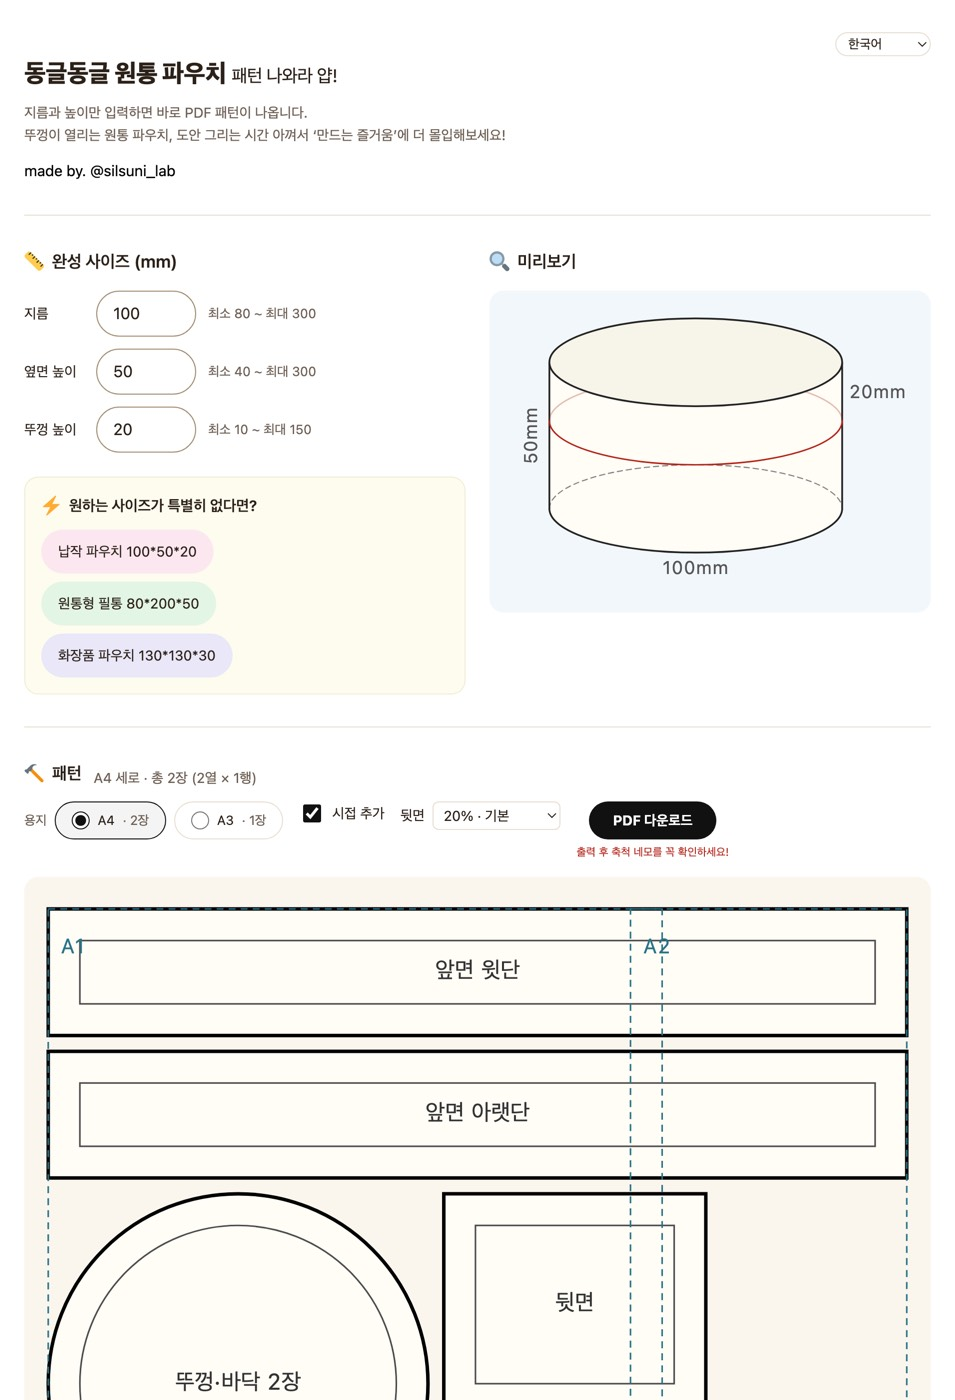
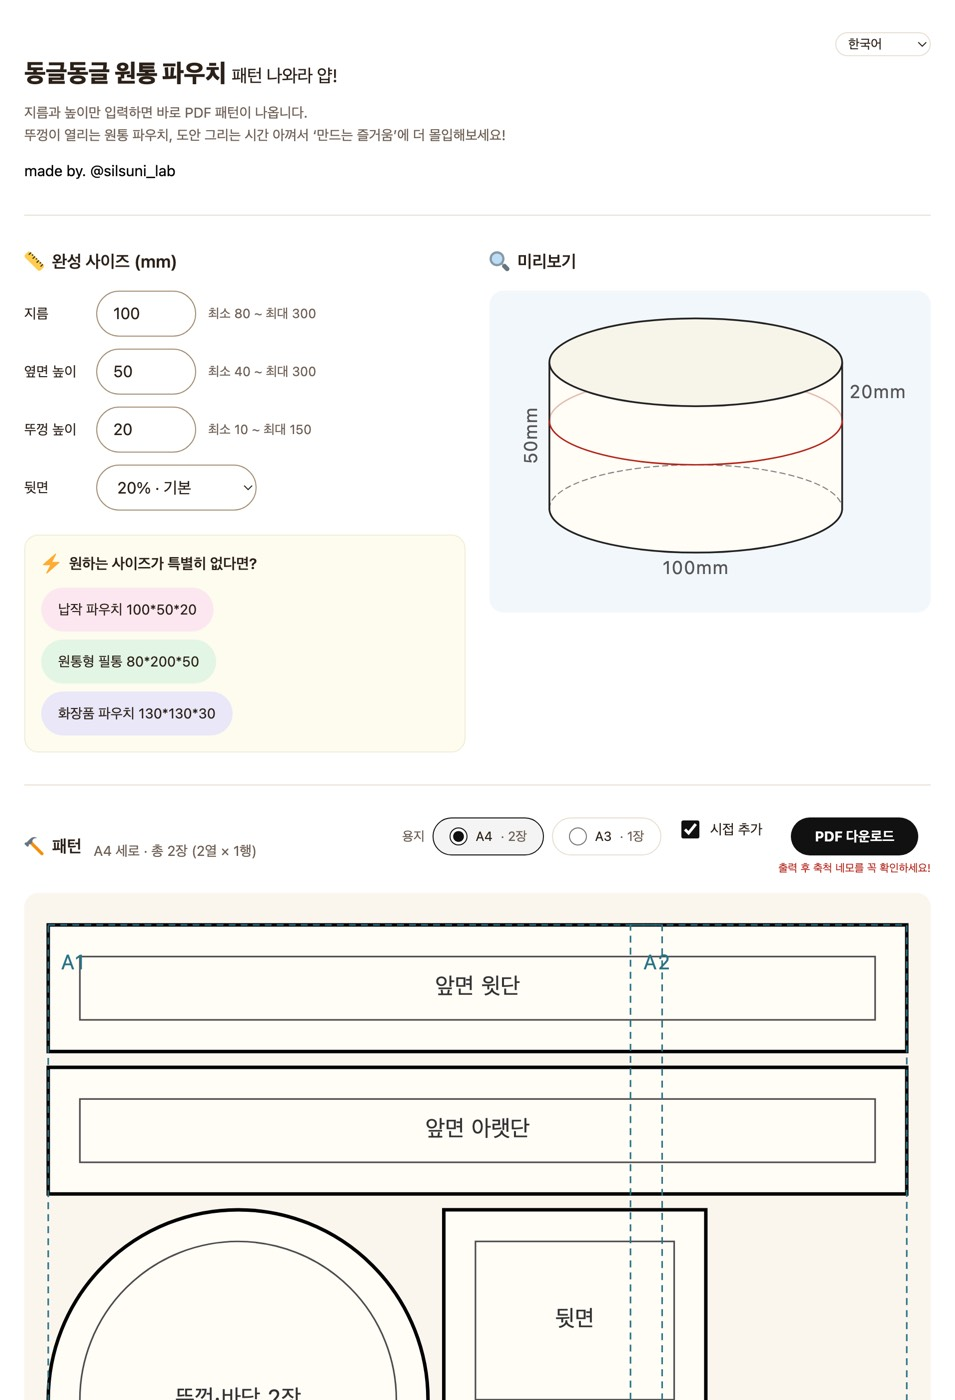
뒷면 비율을 치수 칸 아래로 옮기기
용지·시접과 함께 출력 설정 줄에 있었는데 그 자리가 아니었다. 용지는 종이를
고르는 값이고 시접은 켜고 끄는 값이지만, 뒷면 비율은 지름·옆면·뚜껑처럼
도안의 모양 자체를 정한다. 값을 바꾸면 조각 치수가 바뀐다. 뚜껑 높이 다음
줄로 올려 치수 넷이 한 묶음이 되게 했다.

값이 틀렸을 때 뜨는 오류 줄(#error)이 바로 아래에 있는 것도 이제야 맞다.
전에는 화면 위쪽 오류가 화면 아래쪽 칸을 가리키고 있었다.

라벨 칸을 .input-row와 같은 60px로 맞춰 왼쪽 끝이 정렬되고, 고르는 칸도
입력칸과 같은 키(46px)·같은 알약 모양으로 뒀다. 안 맞추면 네 줄 가운데
마지막 줄만 작고 각져 딴 무리로 보인다. 폭은 안 묶는다 — "10% · 경첩 좁게"가
입력칸 100px에 안 들어간다.

다섯 로케일 페이지에서 모두 옮겼다. 한 언어만 자리가 다르면 같은 화면이
언어마다 다른 것이 된다. 클래스 이름도 .fold-field에서 .back-field로 바꿨다
— 더는 체크박스 줄에 얹히지 않으므로 그 이름이 자리를 잘못 가리킨다.

화면이 바뀌었으므로 screenshot-round.jpg를 다시 찍었다.

Claude-Session: https://claude.ai/code/session_017eAgpg8sb2QR2GtxX5zMHr

diff --git a/round-pouch-test/ja/index.html b/round-pouch-test/ja/index.html
@@ -34,6 +34,7 @@
         <section class="panel" aria-labelledby="size-heading">
           <h2 class="section" id="size-heading"><svg class="icon" aria-hidden="true" focusable="false" xmlns="http://www.w3.org/2000/svg" viewBox="0 0 36 36"><path fill="#FFCC4D" d="M30.021 34.264c-1.563 1.563-4.095 1.562-5.656 0L1.736 11.636c-1.562-1.562-1.563-4.094 0-5.657l4.243-4.242c1.562-1.562 4.095-1.562 5.657 0l22.626 22.628c1.562 1.562 1.562 4.096.001 5.656l-4.242 4.243z"/><path fill="#292F33" d="M9.515 6.687c-.391.39-1.023.39-1.414 0-.39-.391-.39-1.024 0-1.415l3.536-3.536 1.414 1.415-3.536 3.536zm5.656 1.414c-.39.391-1.024.391-1.414 0-.391-.391-.391-1.024 0-1.414l1.415-1.415 1.414 1.415-1.415 1.414zm1.415 5.656c-.391.391-1.024.391-1.414 0-.39-.391-.39-1.024 0-1.414l3.536-3.536c.486.486.929.928 1.414 1.415l-3.536 3.535zm5.656 1.414c-.39.391-1.023.391-1.413 0-.392-.391-.391-1.024 0-1.414l1.414-1.415c.485.487.928.928 1.414 1.415l-1.415 1.414zm1.415 5.657c-.391.391-1.023.391-1.414 0-.391-.391-.391-1.023-.001-1.414l3.536-3.535 1.414 1.414-3.535 3.535zm7.071 7.071c-.39.391-1.023.391-1.413 0-.392-.391-.392-1.023-.001-1.414l3.536-3.535 1.414 1.414-3.536 3.535zm-1.415-5.657c-.391.391-1.022.391-1.414.001-.391-.391-.39-1.024 0-1.414l1.415-1.414 1.413 1.413-1.414 1.414z"/></svg>完成サイズ (mm)</h2>
           <div class="inputs" id="inputs"></div>
+          <div class="back-field" id="back-field"></div>
           <p class="error" id="error" hidden></p>
 
           <div class="presets-box">
@@ -63,7 +64,6 @@
               <div class="papers" id="papers"></div>
             </div>
             <div class="fold-field" id="seam-field"></div>
-            <div class="fold-field" id="back-field"></div>
             <div class="download-field">
               <button type="button" id="download" class="download">PDF をダウンロード</button>
               <p class="print-check">印刷後に 3cm を確認してください！</p>

diff --git a/round-pouch-test/index.html b/round-pouch-test/index.html
@@ -41,6 +41,7 @@
         <section class="panel" aria-labelledby="size-heading">
           <h2 class="section" id="size-heading"><svg class="icon" aria-hidden="true" focusable="false" xmlns="http://www.w3.org/2000/svg" viewBox="0 0 36 36"><path fill="#FFCC4D" d="M30.021 34.264c-1.563 1.563-4.095 1.562-5.656 0L1.736 11.636c-1.562-1.562-1.563-4.094 0-5.657l4.243-4.242c1.562-1.562 4.095-1.562 5.657 0l22.626 22.628c1.562 1.562 1.562 4.096.001 5.656l-4.242 4.243z"/><path fill="#292F33" d="M9.515 6.687c-.391.39-1.023.39-1.414 0-.39-.391-.39-1.024 0-1.415l3.536-3.536 1.414 1.415-3.536 3.536zm5.656 1.414c-.39.391-1.024.391-1.414 0-.391-.391-.391-1.024 0-1.414l1.415-1.415 1.414 1.415-1.415 1.414zm1.415 5.656c-.391.391-1.024.391-1.414 0-.39-.391-.39-1.024 0-1.414l3.536-3.536c.486.486.929.928 1.414 1.415l-3.536 3.535zm5.656 1.414c-.39.391-1.023.391-1.413 0-.392-.391-.391-1.024 0-1.414l1.414-1.415c.485.487.928.928 1.414 1.415l-1.415 1.414zm1.415 5.657c-.391.391-1.023.392-1.414 0-.391-.391-.391-1.023-.001-1.414l3.536-3.535 1.414 1.414-3.535 3.535zm7.071 7.071c-.39.391-1.023.391-1.413 0-.392-.391-.392-1.023-.001-1.414l3.536-3.535 1.414 1.414-3.536 3.535zm-1.415-5.657c-.391.391-1.022.391-1.414.001-.391-.391-.39-1.024 0-1.414l1.415-1.414 1.413 1.413-1.414 1.414z"/></svg>완성 사이즈 (mm)</h2>
           <div class="inputs" id="inputs"></div>
+          <div class="back-field" id="back-field"></div>
           <p class="error" id="error" hidden></p>
 
           <div class="presets-box">
@@ -70,7 +71,6 @@
               <div class="papers" id="papers"></div>
             </div>
             <div class="fold-field" id="seam-field"></div>
-            <div class="fold-field" id="back-field"></div>
             <div class="download-field">
               <button type="button" id="download" class="download">PDF 다운로드</button>
               <p class="print-check">출력 후 축척 네모를 꼭 확인하세요!</p>

diff --git a/round-pouch-test/en/index.html b/round-pouch-test/en/index.html
@@ -34,6 +34,7 @@
         <section class="panel" aria-labelledby="size-heading">
           <h2 class="section" id="size-heading"><svg class="icon" aria-hidden="true" focusable="false" xmlns="http://www.w3.org/2000/svg" viewBox="0 0 36 36"><path fill="#FFCC4D" d="M30.021 34.264c-1.563 1.563-4.095 1.562-5.656 0L1.736 11.636c-1.562-1.562-1.563-4.094 0-5.657l4.243-4.242c1.562-1.562 4.095-1.562 5.657 0l22.626 22.628c1.562 1.562 1.562 4.096.001 5.656l-4.242 4.243z"/><path fill="#292F33" d="M9.515 6.687c-.391.39-1.023.39-1.414 0-.39-.391-.39-1.024 0-1.415l3.536-3.536 1.414 1.415-3.536 3.536zm5.656 1.414c-.39.391-1.024.391-1.414 0-.391-.391-.391-1.024 0-1.414l1.415-1.415 1.414 1.415-1.415 1.414zm1.415 5.656c-.391.391-1.024.391-1.414 0-.39-.391-.39-1.024 0-1.414l3.536-3.536c.486.486.929.928 1.414 1.415l-3.536 3.535zm5.656 1.414c-.39.391-1.023.391-1.413 0-.392-.391-.391-1.024 0-1.414l1.414-1.415c.485.487.928.928 1.414 1.415l-1.415 1.414zm1.415 5.657c-.391.391-1.023.391-1.414 0-.391-.391-.391-1.023-.001-1.414l3.536-3.535 1.414 1.414-3.535 3.535zm7.071 7.071c-.39.391-1.023.391-1.413 0-.392-.391-.392-1.023-.001-1.414l3.536-3.535 1.414 1.414-3.536 3.535zm-1.415-5.657c-.391.391-1.022.391-1.414.001-.391-.391-.39-1.024 0-1.414l1.415-1.414 1.413 1.413-1.414 1.414z"/></svg>Finished size (mm)</h2>
           <div class="inputs" id="inputs"></div>
+          <div class="back-field" id="back-field"></div>
           <p class="error" id="error" hidden></p>
 
           <div class="presets-box">
@@ -63,7 +64,6 @@
               <div class="papers" id="papers"></div>
             </div>
             <div class="fold-field" id="seam-field"></div>
-            <div class="fold-field" id="back-field"></div>
             <div class="download-field">
               <button type="button" id="download" class="download">Download PDF</button>
               <p class="print-check">Check the test square after printing!</p>

diff --git a/round-pouch-test/zh-CN/index.html b/round-pouch-test/zh-CN/index.html
@@ -34,6 +34,7 @@
         <section class="panel" aria-labelledby="size-heading">
           <h2 class="section" id="size-heading"><svg class="icon" aria-hidden="true" focusable="false" xmlns="http://www.w3.org/2000/svg" viewBox="0 0 36 36"><path fill="#FFCC4D" d="M30.021 34.264c-1.563 1.563-4.095 1.562-5.656 0L1.736 11.636c-1.562-1.562-1.563-4.094 0-5.657l4.243-4.242c1.562-1.562 4.095-1.562 5.657 0l22.626 22.628c1.562 1.562 1.562 4.096.001 5.656l-4.242 4.243z"/><path fill="#292F33" d="M9.515 6.687c-.391.39-1.023.39-1.414 0-.39-.391-.39-1.024 0-1.415l3.536-3.536 1.414 1.415-3.536 3.536zm5.656 1.414c-.39.391-1.024.391-1.414 0-.391-.391-.391-1.024 0-1.414l1.415-1.415 1.414 1.415-1.415 1.414zm1.415 5.656c-.391.391-1.024.391-1.414 0-.39-.391-.39-1.024 0-1.414l3.536-3.536c.486.486.929.928 1.414 1.415l-3.536 3.535zm5.656 1.414c-.39.391-1.023.391-1.413 0-.392-.391-.391-1.024 0-1.414l1.414-1.415c.485.487.928.928 1.414 1.415l-1.415 1.414zm1.415 5.657c-.391.391-1.023.391-1.414 0-.391-.391-.391-1.023-.001-1.414l3.536-3.535 1.414 1.414-3.535 3.535zm7.071 7.071c-.39.391-1.023.391-1.413 0-.392-.391-.392-1.023-.001-1.414l3.536-3.535 1.414 1.414-3.536 3.535zm-1.415-5.657c-.391.391-1.022.391-1.414.001-.391-.391-.39-1.024 0-1.414l1.415-1.414 1.413 1.413-1.414 1.414z"/></svg>完成尺寸 (mm)</h2>
           <div class="inputs" id="inputs"></div>
+          <div class="back-field" id="back-field"></div>
           <p class="error" id="error" hidden></p>
 
           <div class="presets-box">
@@ -63,7 +64,6 @@
               <div class="papers" id="papers"></div>
             </div>
             <div class="fold-field" id="seam-field"></div>
-            <div class="fold-field" id="back-field"></div>
             <div class="download-field">
               <button type="button" id="download" class="download">下载 PDF</button>
               <p class="print-check">打印后请确认 3 厘米方格！</p>

diff --git a/round-pouch-test/zh-TW/index.html b/round-pouch-test/zh-TW/index.html
@@ -34,6 +34,7 @@
         <section class="panel" aria-labelledby="size-heading">
           <h2 class="section" id="size-heading"><svg class="icon" aria-hidden="true" focusable="false" xmlns="http://www.w3.org/2000/svg" viewBox="0 0 36 36"><path fill="#FFCC4D" d="M30.021 34.264c-1.563 1.563-4.095 1.562-5.656 0L1.736 11.636c-1.562-1.562-1.563-4.094 0-5.657l4.243-4.242c1.562-1.562 4.095-1.562 5.657 0l22.626 22.628c1.562 1.562 1.562 4.096.001 5.656l-4.242 4.243z"/><path fill="#292F33" d="M9.515 6.687c-.391.39-1.023.39-1.414 0-.39-.391-.39-1.024 0-1.415l3.536-3.536 1.414 1.415-3.536 3.536zm5.656 1.414c-.39.391-1.024.391-1.414 0-.391-.391-.391-1.024 0-1.414l1.415-1.415 1.414 1.415-1.415 1.414zm1.415 5.656c-.391.391-1.024.391-1.414 0-.39-.391-.39-1.024 0-1.414l3.536-3.536c.486.486.929.928 1.414 1.415l-3.536 3.535zm5.656 1.414c-.39.391-1.023.391-1.413 0-.392-.391-.391-1.024 0-1.414l1.414-1.415c.485.487.928.928 1.414 1.415l-1.415 1.414zm1.415 5.657c-.391.391-1.023.391-1.414 0-.391-.391-.391-1.023-.001-1.414l3.536-3.535 1.414 1.414-3.535 3.535zm7.071 7.071c-.39.391-1.023.391-1.413 0-.392-.391-.392-1.023-.001-1.414l3.536-3.535 1.414 1.414-3.536 3.535zm-1.415-5.657c-.391.391-1.022.391-1.414.001-.391-.391-.39-1.024 0-1.414l1.415-1.414 1.413 1.413-1.414 1.414z"/></svg>完成尺寸 (mm)</h2>
           <div class="inputs" id="inputs"></div>
+          <div class="back-field" id="back-field"></div>
           <p class="error" id="error" hidden></p>
 
           <div class="presets-box">
@@ -63,7 +64,6 @@
               <div class="papers" id="papers"></div>
             </div>
             <div class="fold-field" id="seam-field"></div>
-            <div class="fold-field" id="back-field"></div>
             <div class="download-field">
               <button type="button" id="download" class="download">下載 PDF</button>
               <p class="print-check">印出後請確認 3 公分方格！</p>

diff --git a/src/style.css b/src/style.css
@@ -426,7 +426,37 @@ body {
 }
 .other-kind a:hover { text-decoration: underline; }
 
-/* 뒷면 비율 고르기. 체크박스(.fold-option) 자리에 나란히 선다. */
+/*
+ * 뒷면 비율. 치수 칸 바로 아래, 뚜껑 높이 다음 줄에 선다.
+ *
+ * 용지·시접과 함께 출력 설정 줄에 있었는데 그 자리가 아니었다. 용지는 종이를
+ * 고르는 값이고 시접은 켜고 끄는 값이지만, 뒷면 비율은 지름·옆면·뚜껑처럼
+ * 도안의 모양 자체를 정한다. 값을 바꾸면 조각 치수가 바뀐다.
+ *
+ * 라벨 칸을 .input-row와 같은 60px로 맞춰 치수 칸들과 왼쪽 끝이 정렬된다.
+ * 고르는 칸은 폭을 안 묶는다 — "10% · 경첩 좁게"가 입력칸 100px에 안 들어간다.
+ */
+.back-field { margin-top: var(--space-3); }
+.back-field .fold-option {
+  display: grid;
+  grid-template-columns: 60px auto;
+  justify-content: start;
+  gap: var(--space-3);
+  cursor: default;
+}
+.back-field .fold-option > span { font-size: 14px; }
+/*
+ * 고르는 칸을 입력칸과 같은 키·같은 알약 모양으로 맞춘다. 안 맞추면 네 줄
+ * 가운데 마지막 줄만 작고 각져서 딴 무리로 보인다.
+ */
+.back-field .choice-select {
+  min-height: 46px;
+  padding: 0 var(--space-4);
+  border-radius: var(--radius-pill);
+  border-color: var(--field-line);
+  font-size: 16px;   /* 16px 미만이면 iOS가 확대한다 */
+}
+
 .choice-select {
   font: inherit;
   font-size: 14px;
